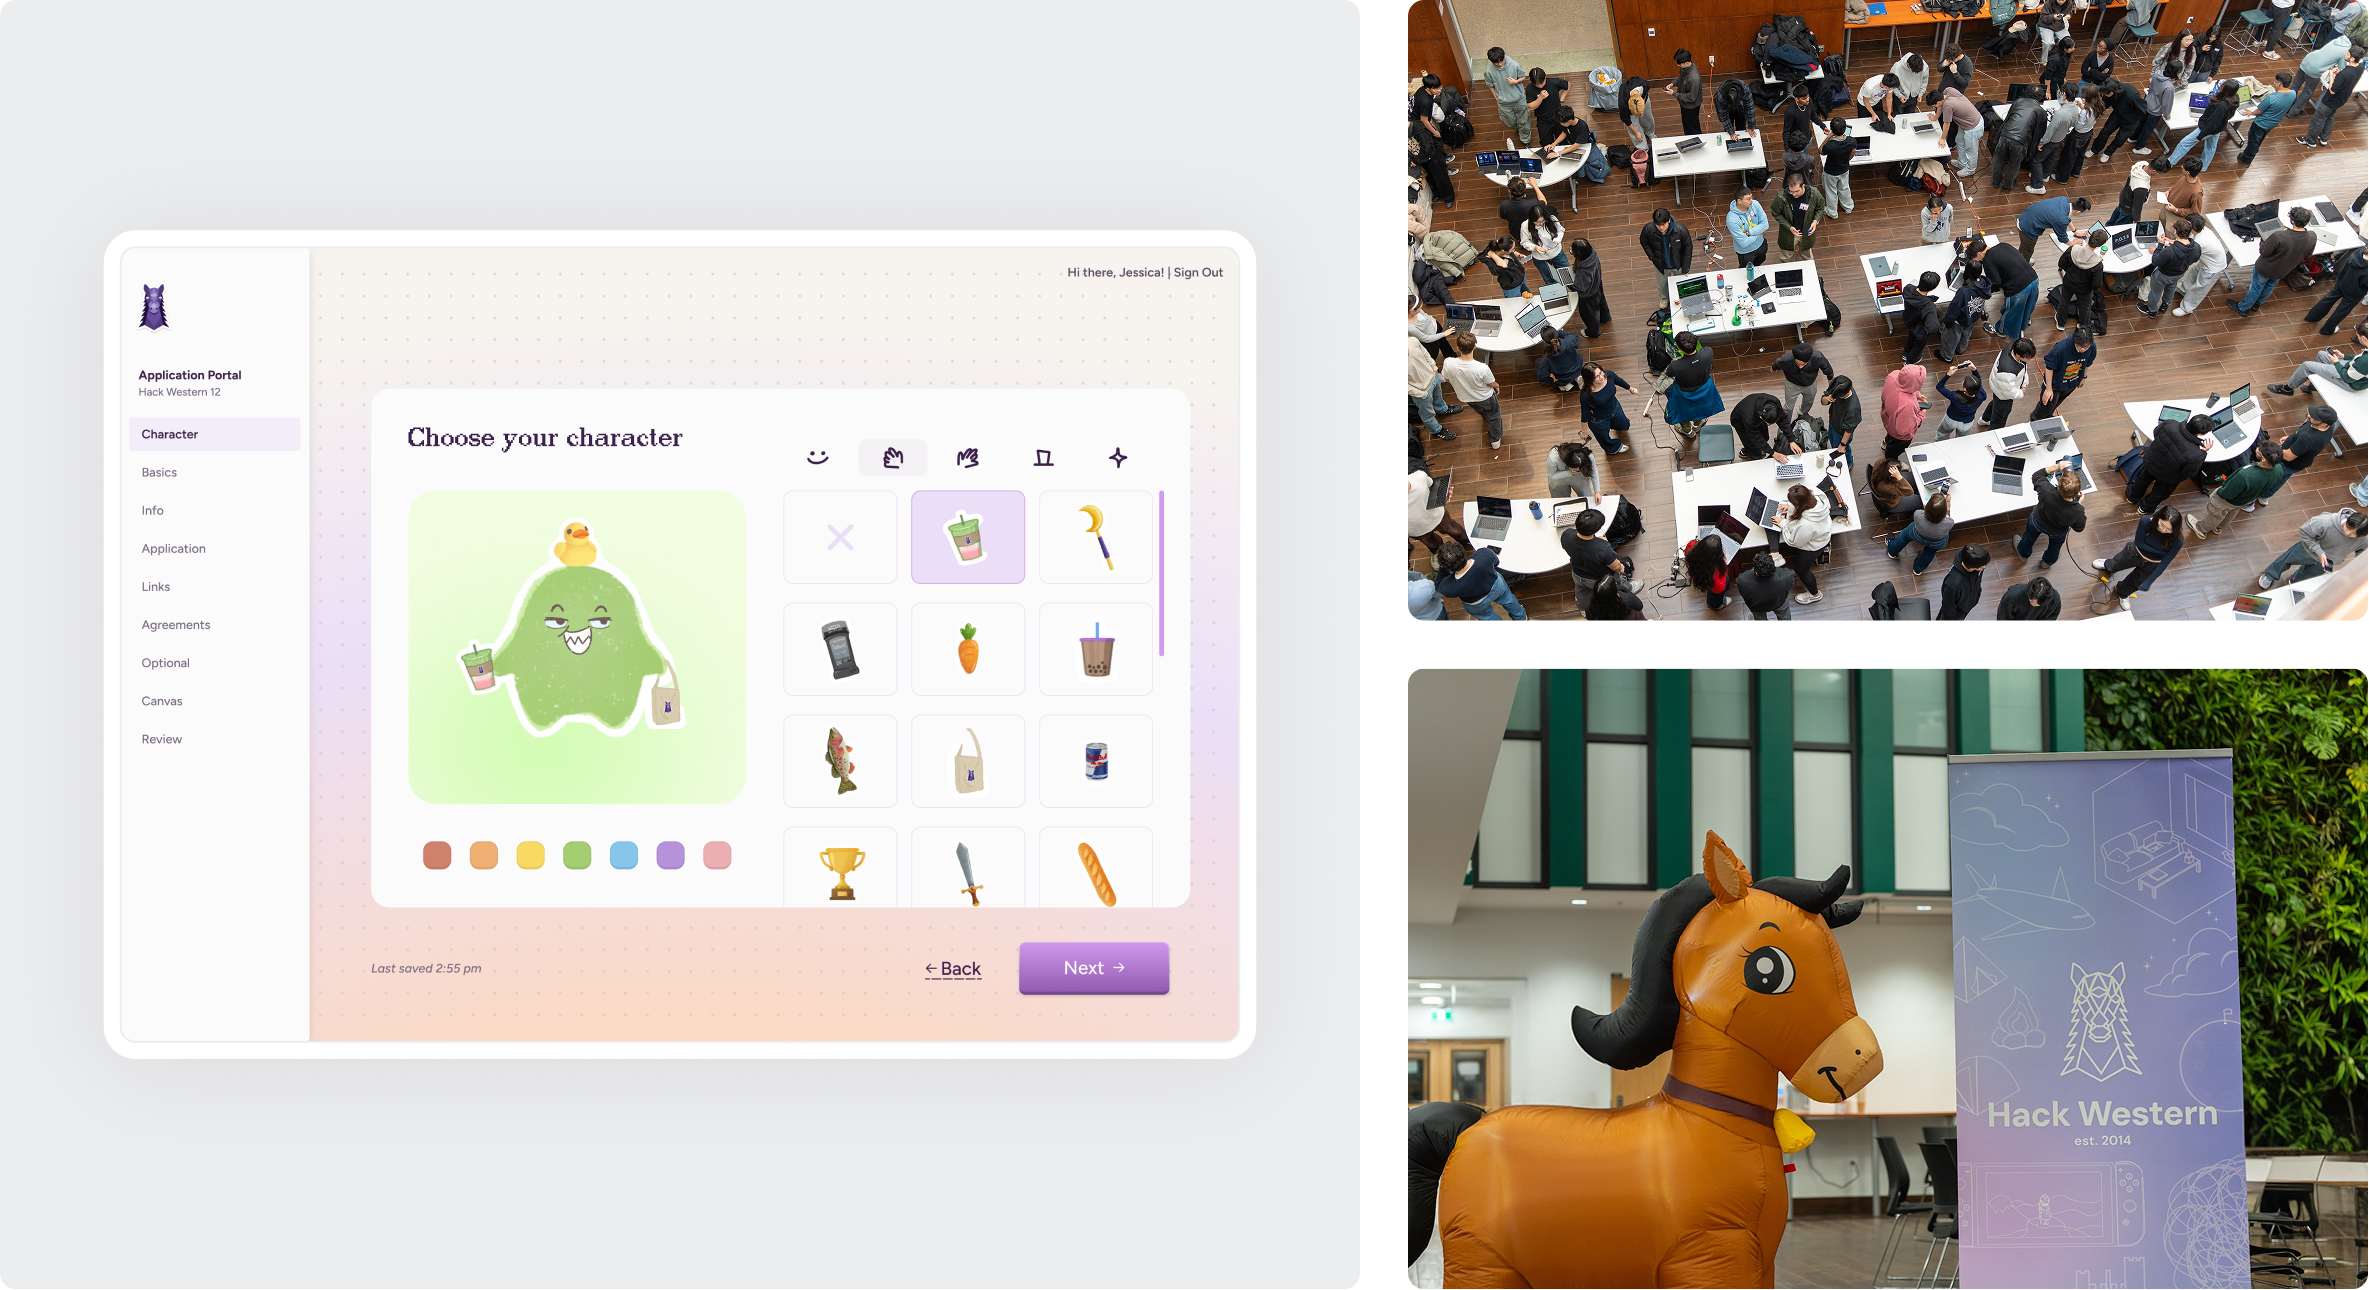
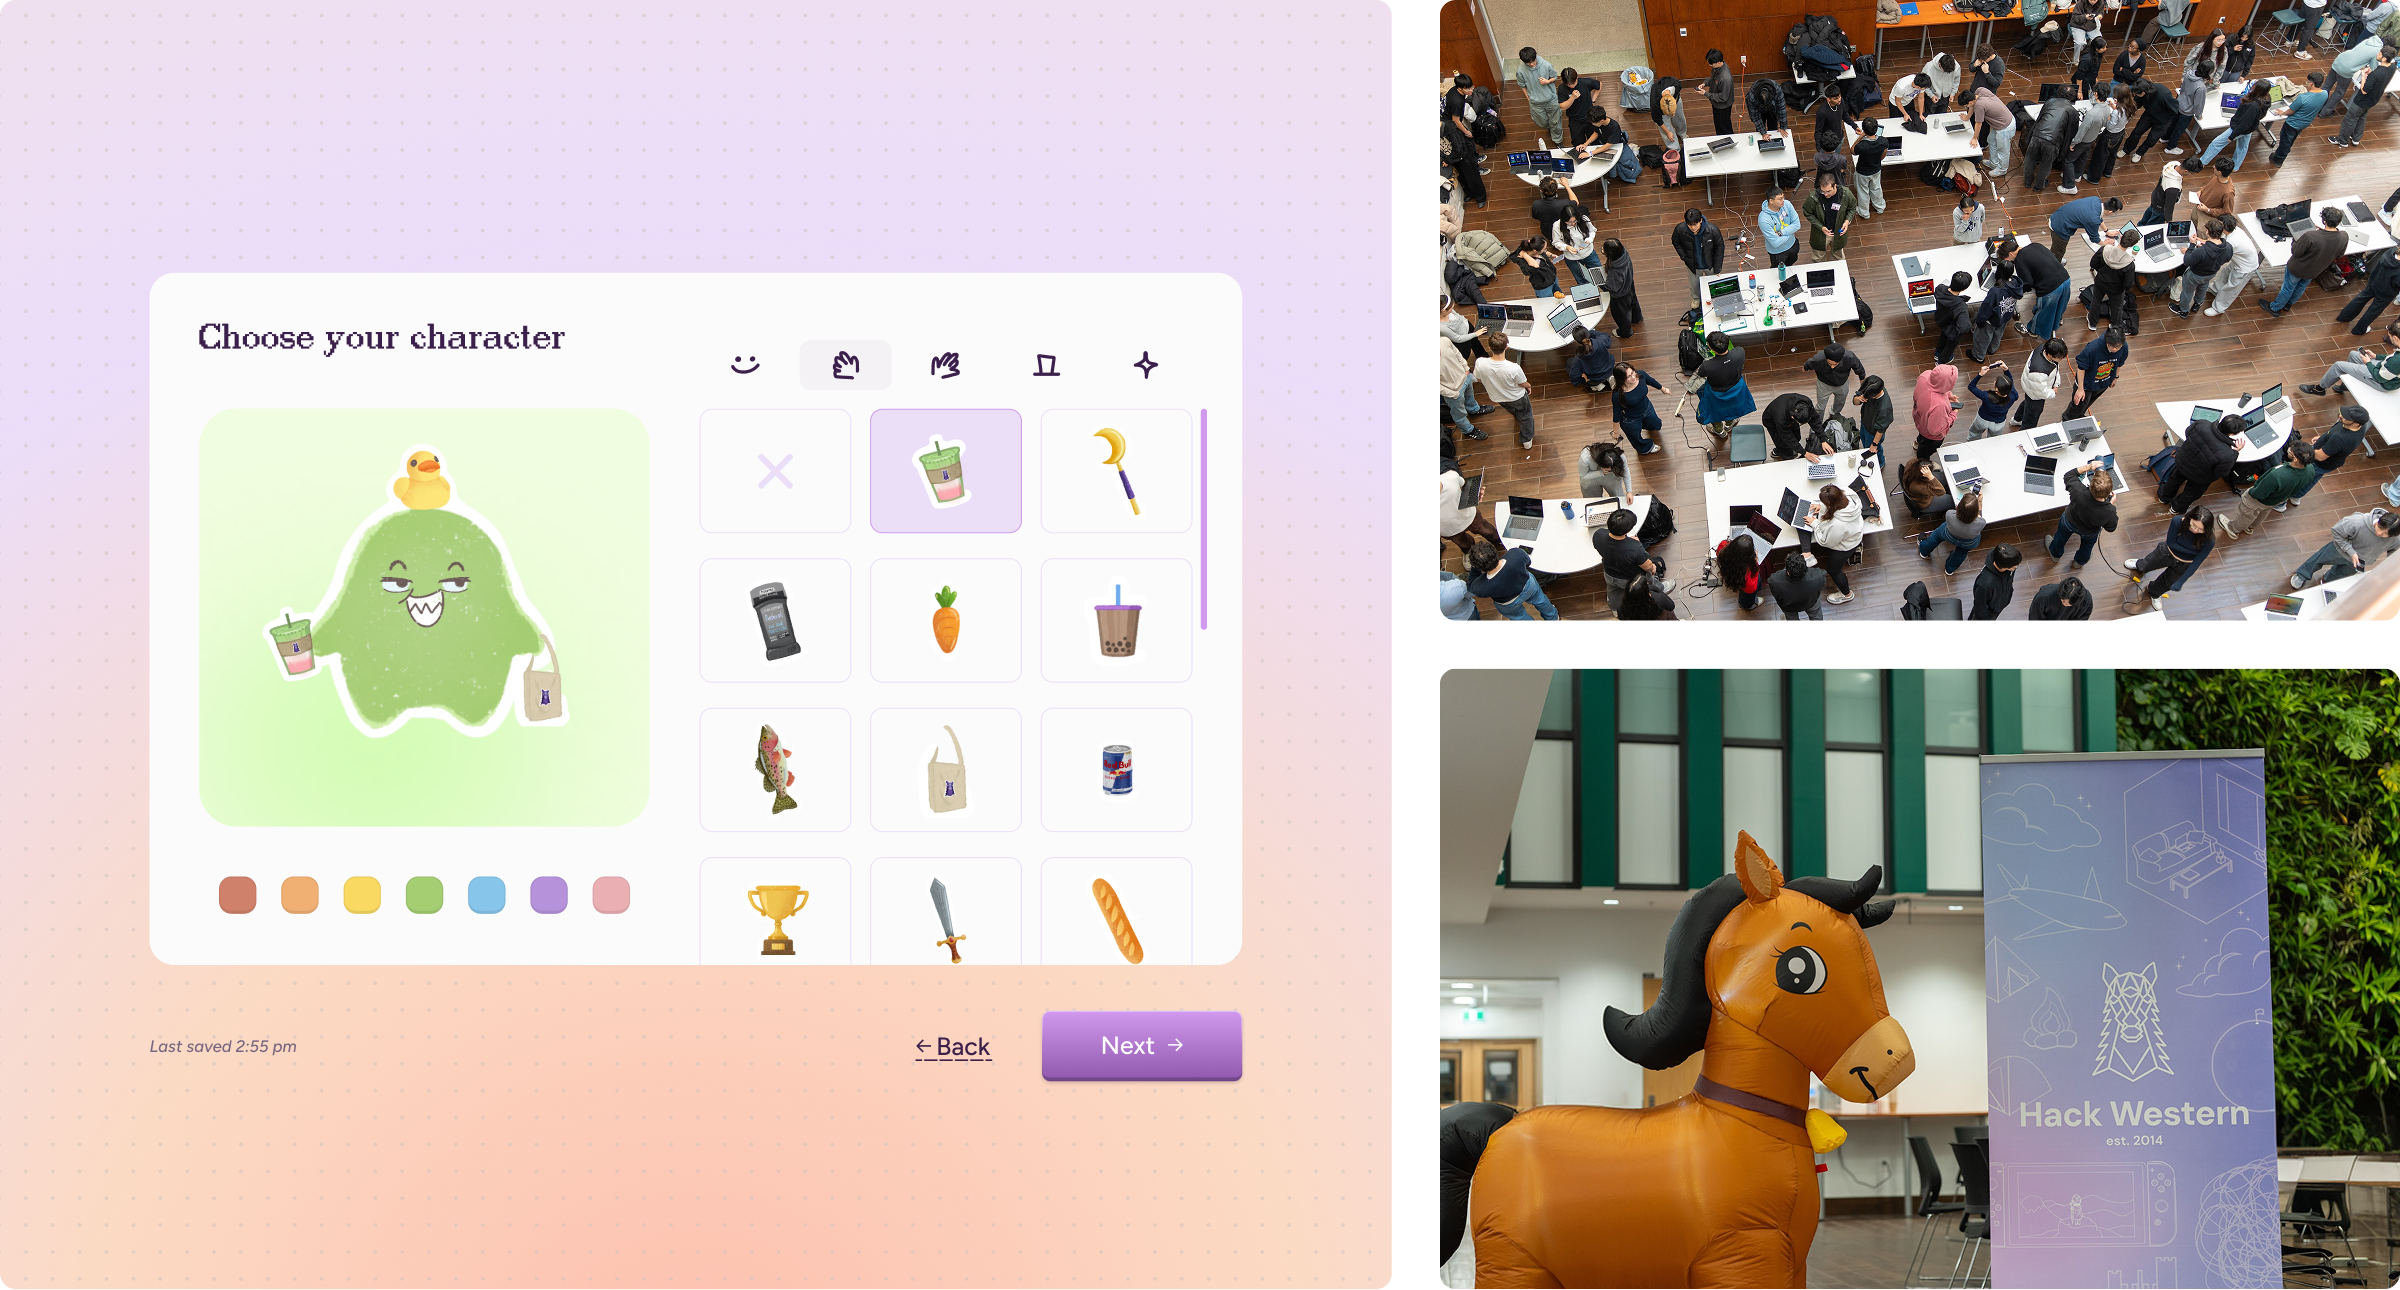
Small tweaks: outcomes label spacing, hack western overview image
Claude-Session: https://claude.ai/code/session_01BSuAGQ94Kdwn19U6CXvDK8

diff --git a/components/cs/Outcomes.tsx b/components/cs/Outcomes.tsx
@@ -17,7 +17,7 @@ export function Outcomes({ metrics }: OutcomesProps) {
         {metrics.map(({ value, label }) => (
           <div key={label} className="max-w-[12rem]">
             <p className="text-2xl font-medium text-primary">{value}</p>
-            <p className="text-base leading-normal text-neutral-500">{label}</p>
+            <p className="mt-1 text-base leading-normal text-neutral-500">{label}</p>
           </div>
         ))}
       </div>
